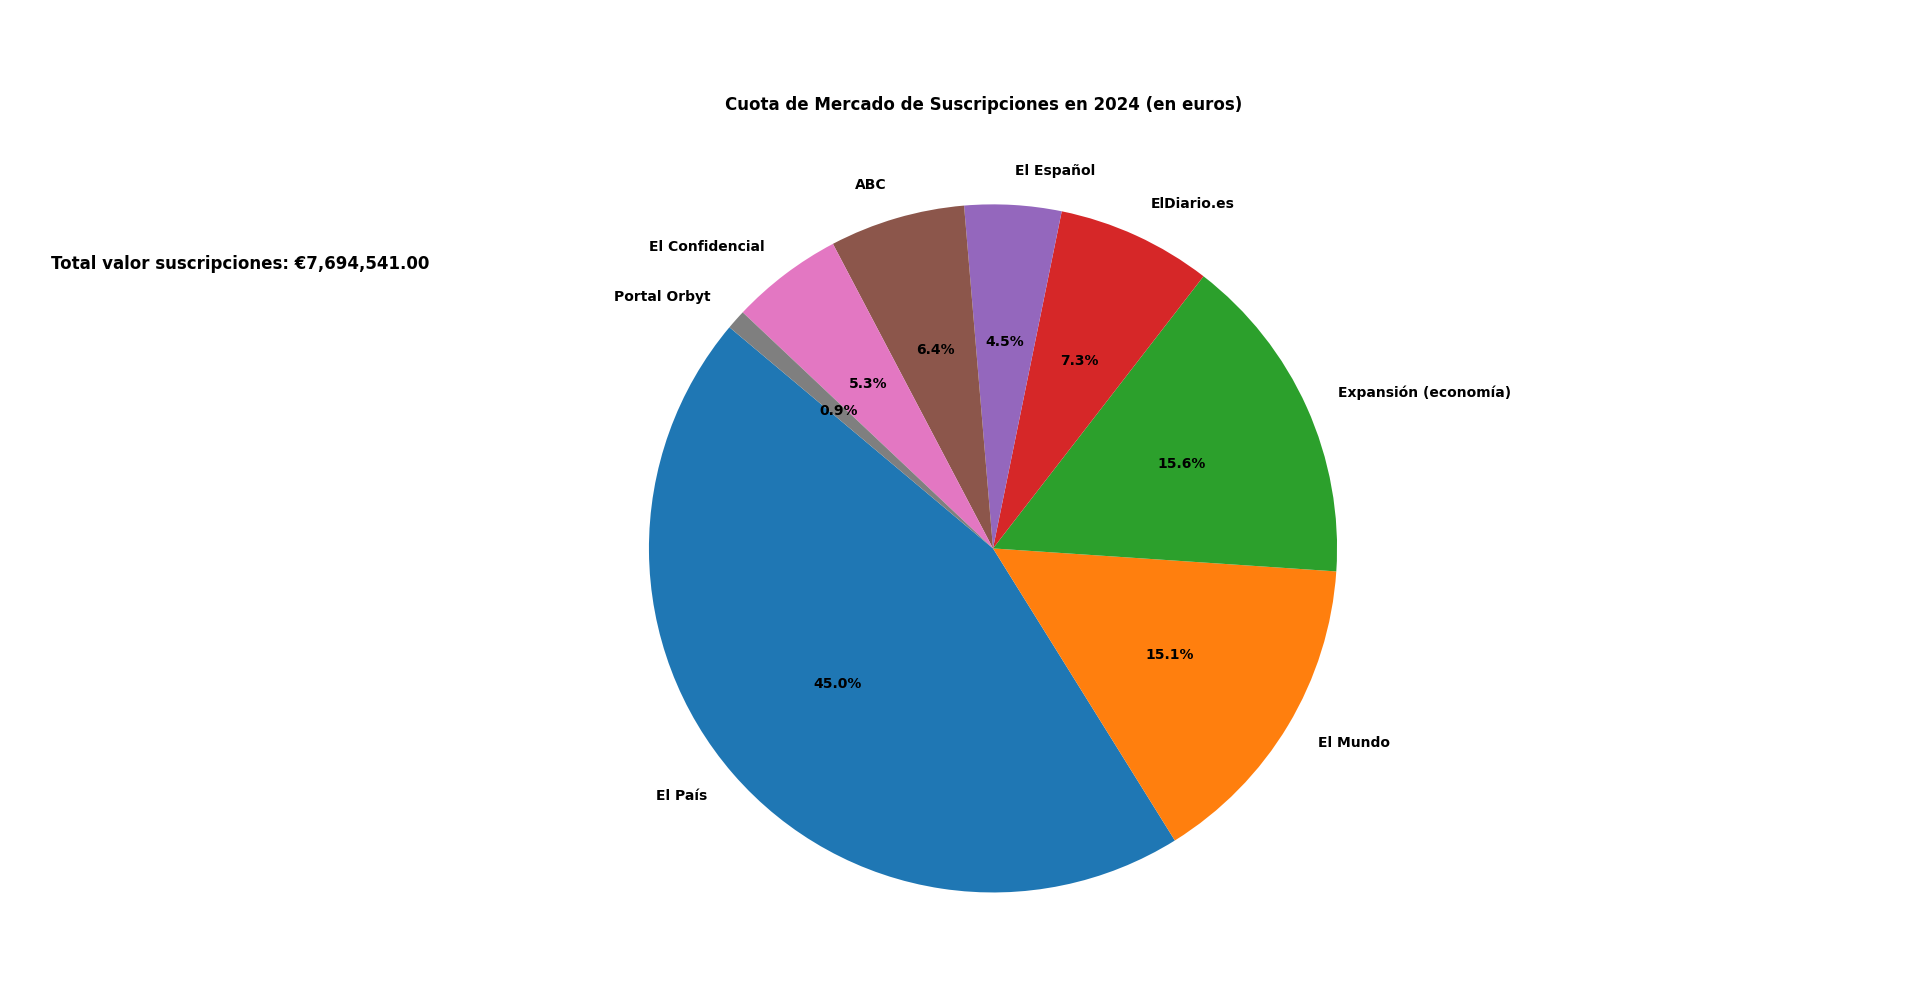
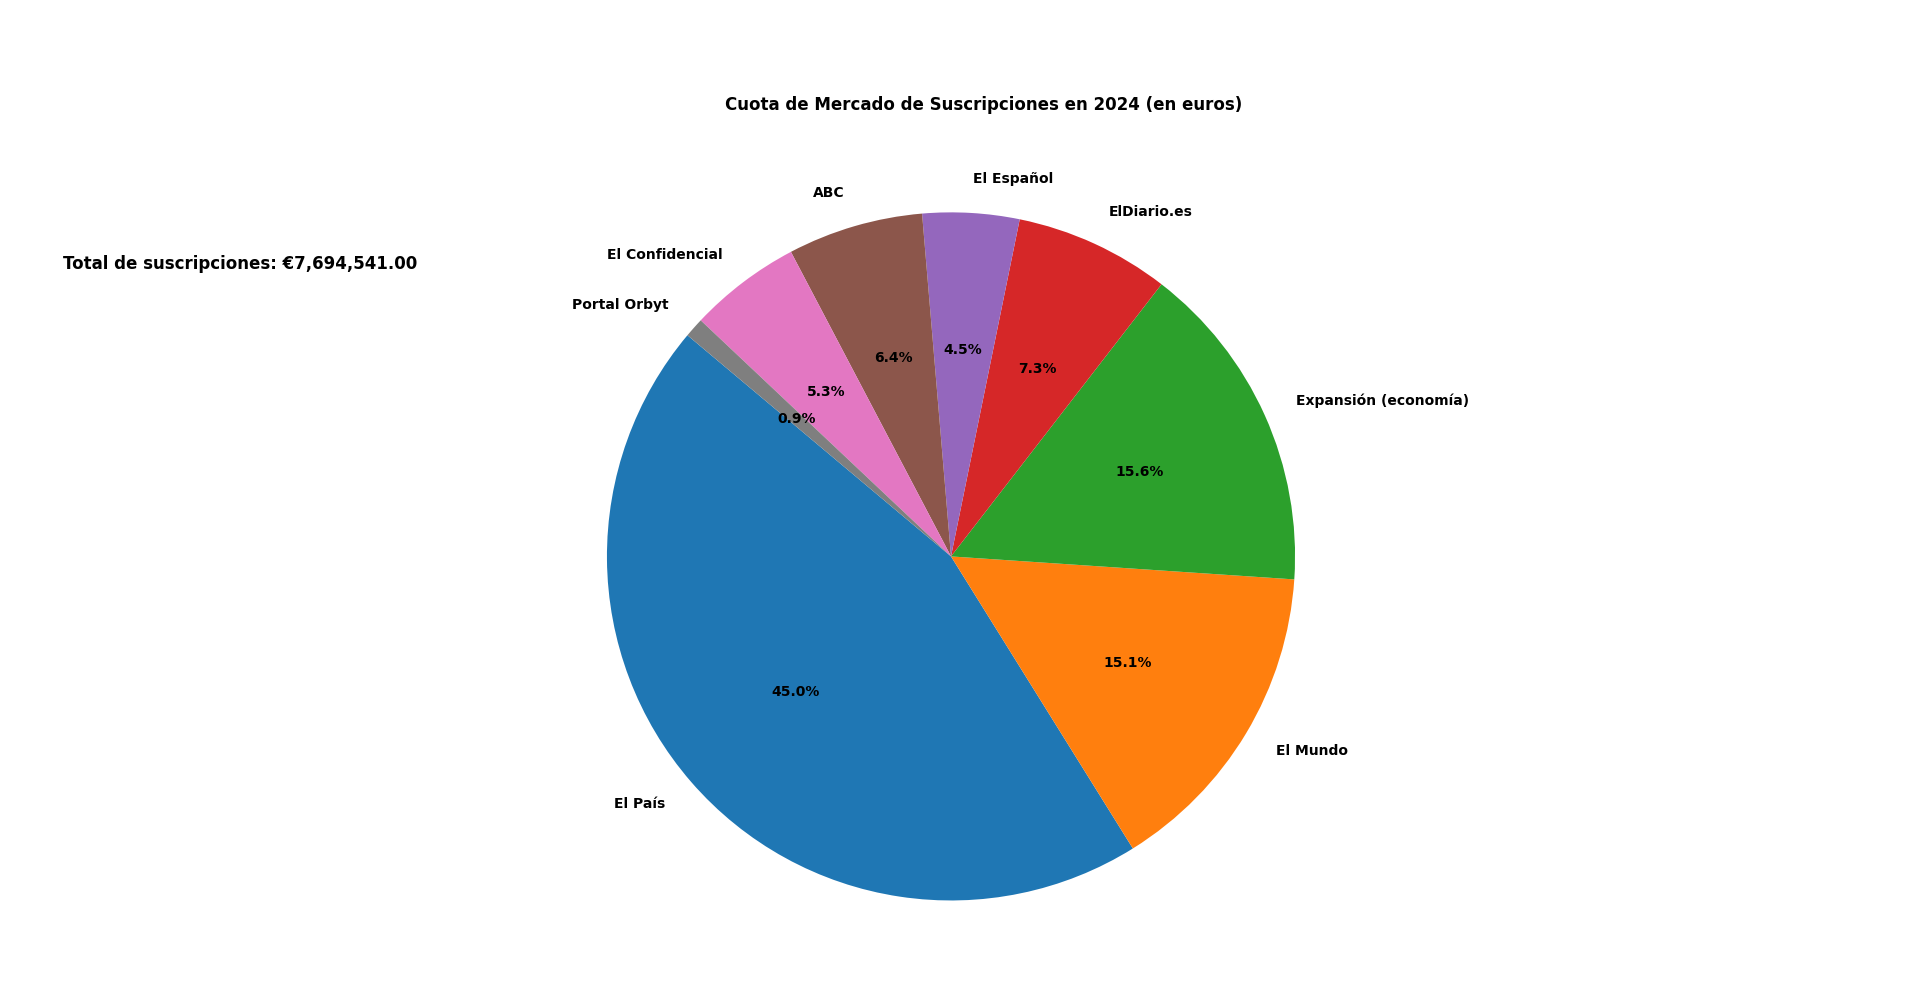
Cuota de mercado 2

diff --git a/gráfico_cuota_de_mercado.py b/gráfico_cuota_de_mercado.py
@@ -25,7 +25,7 @@ plt.pie(valor_suscripciones, labels=perio_clean, autopct='%1.1f%%', startangle=1
 plt.title('Cuota de Mercado de Suscripciones en 2024 (en euros)')
 
 # Añadir el valor total de suscriptores en euros
-plt.annotate(f'Total valor suscripciones: €{total_valor_suscripciones:,.2f}', 
+plt.annotate(f'Total de suscripciones: €{total_valor_suscripciones:,.2f}', 
              xy=(0.5, 0.5), xytext=(0, 0.8),
              textcoords='axes fraction', ha='center', fontsize=12)
 
